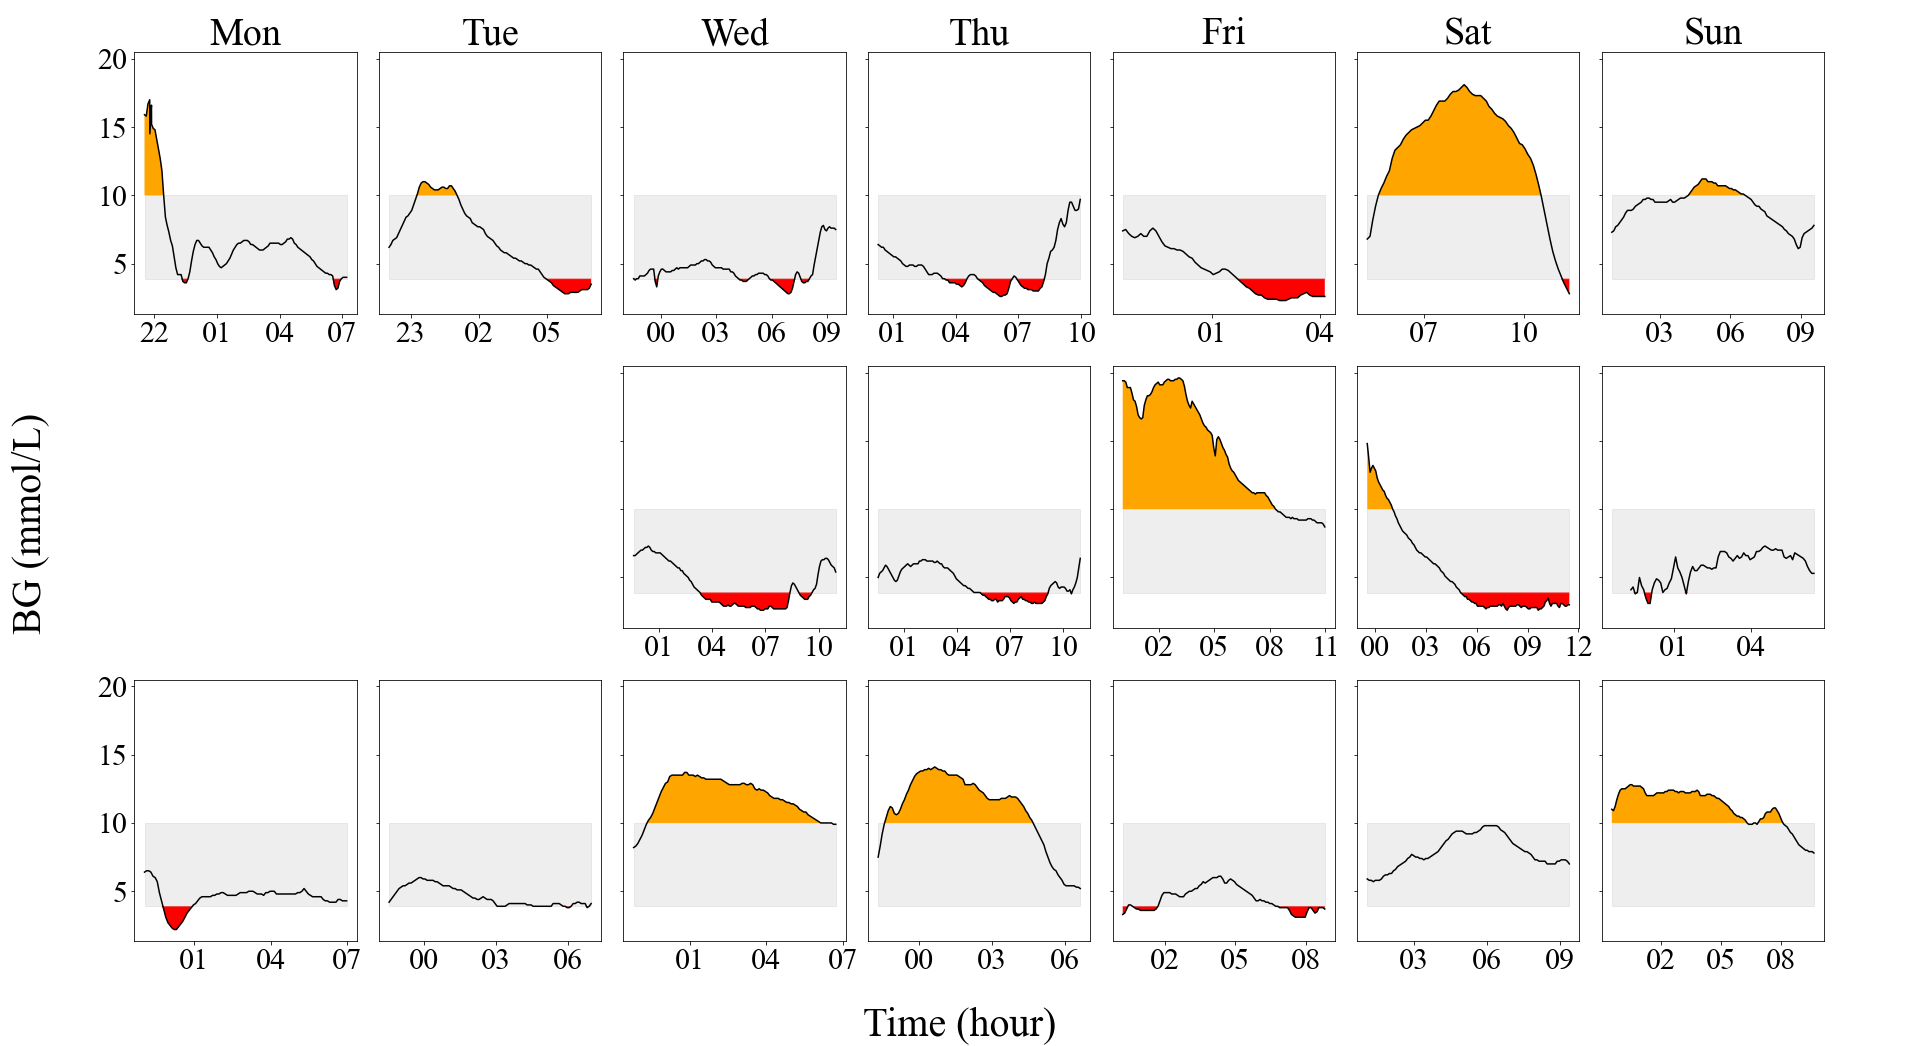
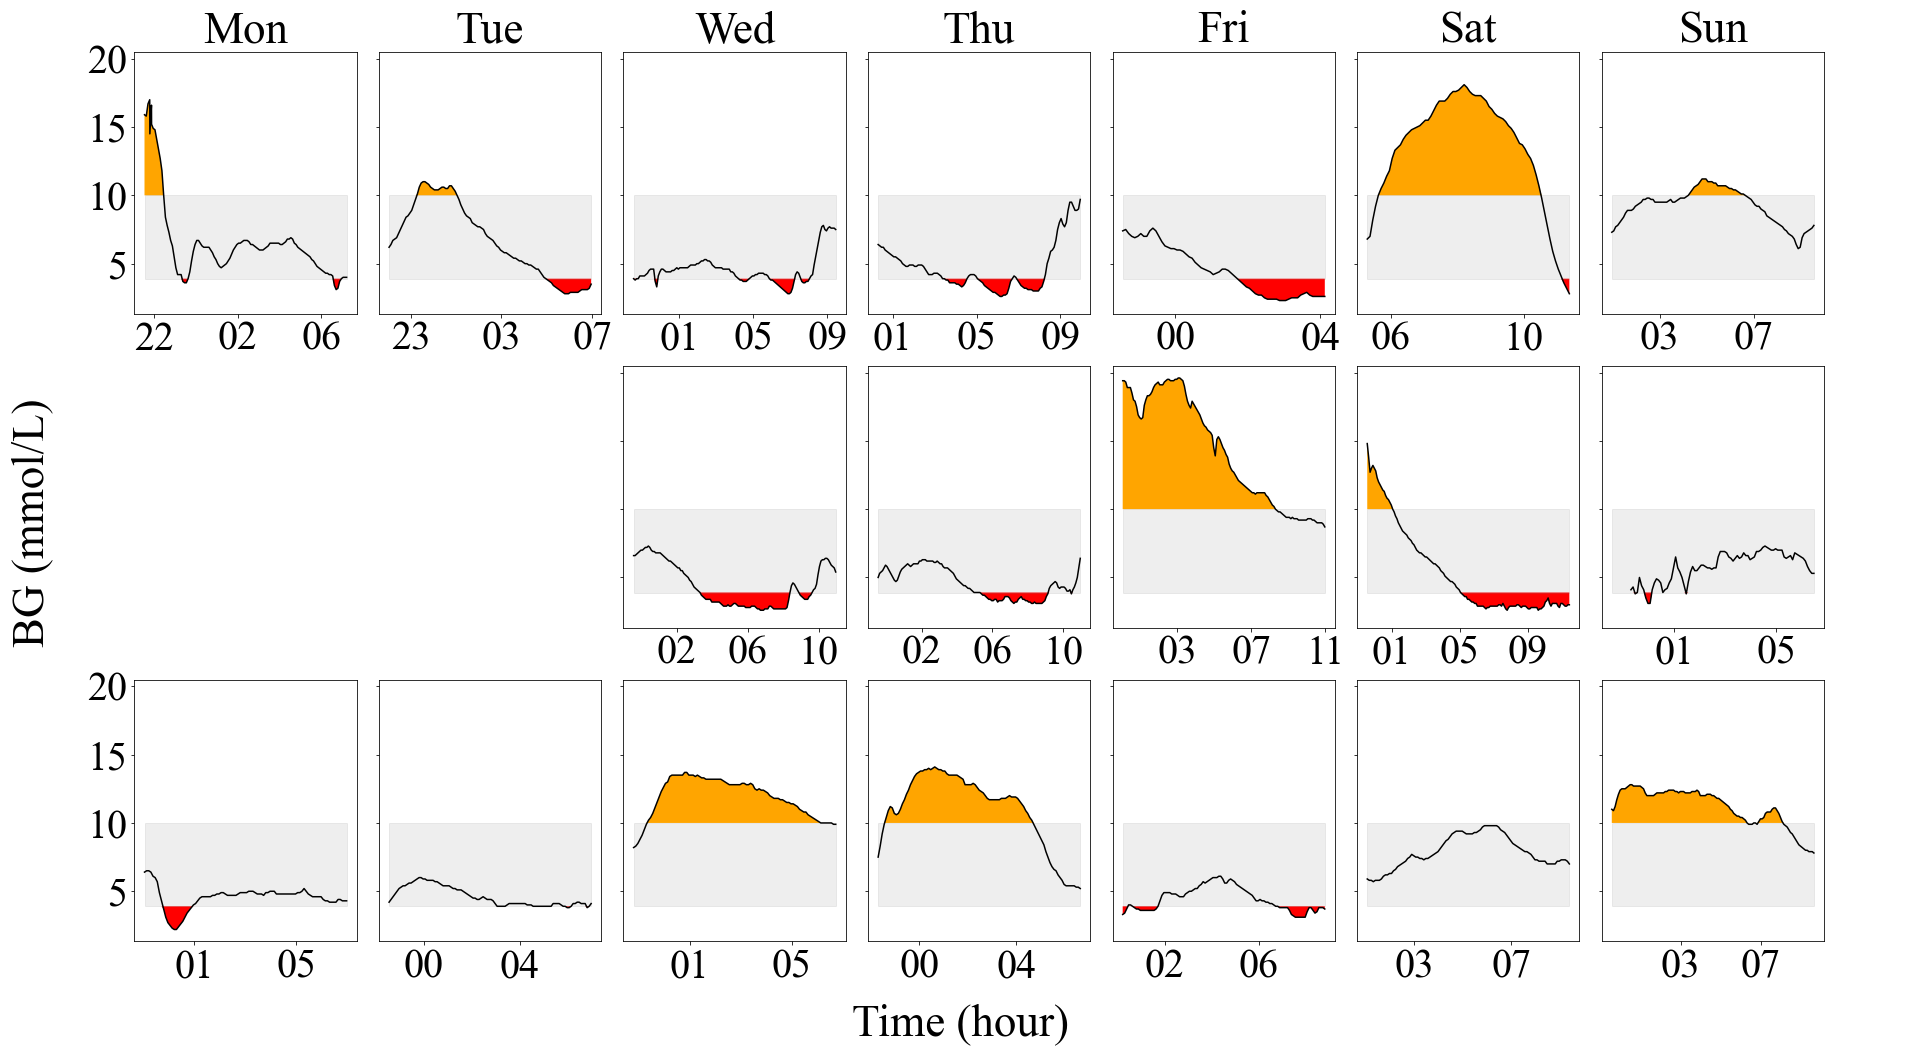
plot for fig 10 updated

diff --git a/PlotWeeklyFam06.py b/PlotWeeklyFam06.py
@@ -75,7 +75,7 @@ for i in range(2):
 # Set weekday titles
 weekdays = ['Mon', 'Tue', 'Wed', 'Thu', 'Fri', 'Sat', 'Sun']
 for i in range(7):
-    axs[0, i].set_title(weekdays[i], fontsize=38, fontname='Times New Roman')
+    axs[0, i].set_title(weekdays[i], fontsize=45, fontname='Times New Roman')
 
 # Limits
 upper_lim = 10.0
@@ -136,17 +136,17 @@ for session_index, session in enumerate(sessions):
         # Format the x-axis ticks  
         axs[row,col].xaxis.set_major_formatter(mdates.DateFormatter('%H'))  
         # Set the interval for x-axis ticks  
-        axs[row,col].xaxis.set_major_locator(mdates.HourLocator(interval=3)) 
+        axs[row,col].xaxis.set_major_locator(mdates.HourLocator(interval=4)) 
         # Set the fontsize of the x- and y-axis ticks 
         # axs[row, col].tick_params(axis='x', labelsize=30) 
         for label in axs[row, col].get_xticklabels():
             label.set_fontname('Times New Roman')
-            label.set_fontsize(30)
+            label.set_fontsize(40)
                             
         # Set the font family and fontsize for the y-axis ticks
         for label in axs[row, col].get_yticklabels():
             label.set_fontname('Times New Roman')
-            label.set_fontsize(30)
+            label.set_fontsize(40)
             
         # Set the specific ticks for the y-axis
         specific_ticks = [5, 10, 15, 20]
@@ -184,11 +184,10 @@ for session_index, session in enumerate(sessions):
 # Get space between subplots 
 fig.subplots_adjust(left=0.07, right=0.95, top=0.95, bottom=0.1, wspace=0.1, hspace=0.2) 
 
-
-
 # Add figure-level labels with adjusted coordinates 
-fig.text(0.5, 0.01, 'Time (hour)', ha='center', fontsize=40, fontname='Times New Roman')   
-fig.text(0.006, 0.5, 'BG (mmol/L)', va='center', fontsize=40, fontname='Times New Roman', rotation=90)   
+fig.text(0.5, 0.01, 'Time (hour)', ha='center', fontsize=45, fontname='Times New Roman')   
+fig.text(0.006, 0.5, 'BG (mmol/L)', va='center', fontsize=45, fontname='Times New Roman', rotation=90) 
+ 
 
 # Necessary for getting a good saved image
 plt.get_current_fig_manager().full_screen_toggle()   

diff --git a/PlotActi.py b/PlotActi.py
@@ -1,0 +1,8 @@
+# -*- coding: utf-8 -*-
+"""
+Created on Fri Dec  1 17:54:05 2023
+
+@author: MGRO0154
+"""
+
+
